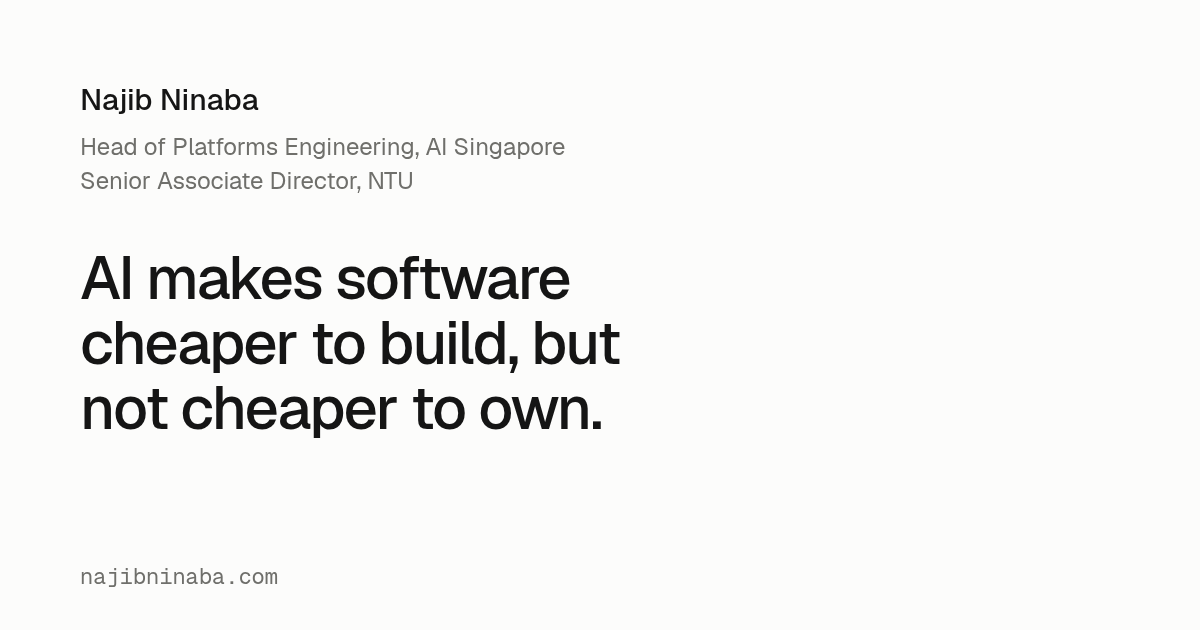
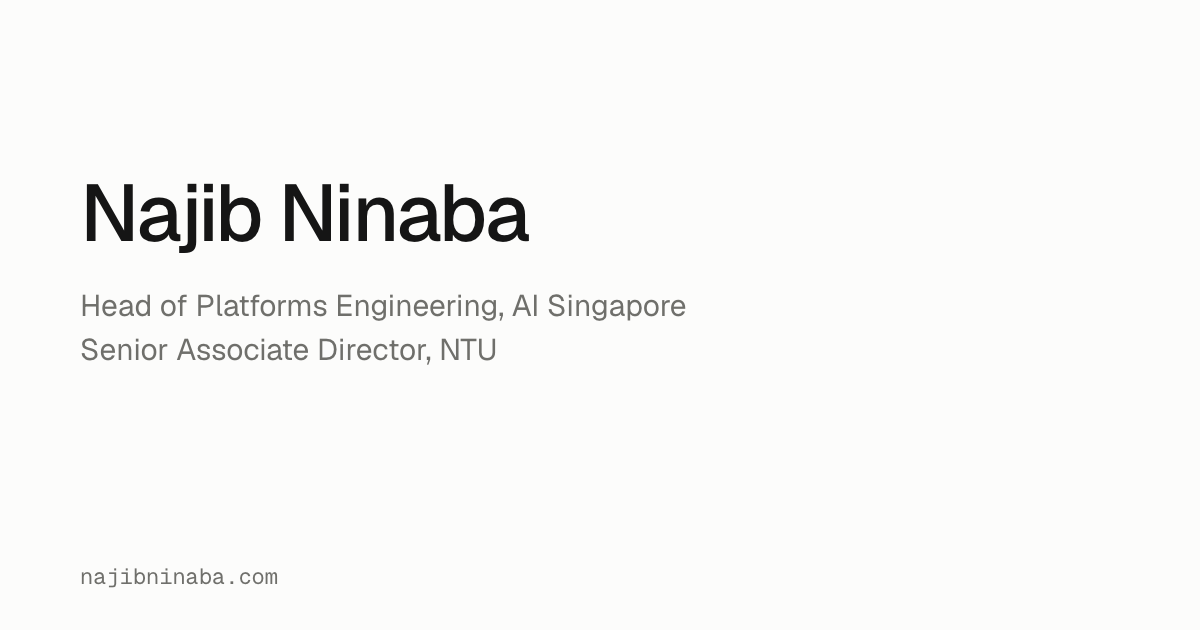
feat(home): lead with name instead of tagline (#5)
* feat(home): lead with name instead of tagline

Drop the "cheaper to build, not cheaper to own" tagline. It uses the
contrast framing the voice guide avoids and reads as a trend take.

- Name is now the one large line; roles sit under it at 16px
- Soften bio copy: "ownership after launch", drop the repeated claim
- Remove the em dash from the page title
- Regenerate og.png as a name-first card and update its alt text
- Update DESIGN.md, PRODUCT.md and design tokens to match

Claude-Session: https://claude.ai/code/session_01SG8wCxUgHKAB8YQrZQepAH

* fix(seo): separate name from roles in page title with a colon

Claude-Session: https://claude.ai/code/session_01SG8wCxUgHKAB8YQrZQepAH

Changed region(s): [[0.0617, 0.2111, 0.5858, 0.6937], [0.0617, 0.1206, 0.2158, 0.181]]

diff --git a/src/data/site.ts b/src/data/site.ts
@@ -12,7 +12,6 @@ export type ExperienceItem = {
 export type SiteContent = {
   name: string;
   title: string;
-  tagline: string;
   description: string;
   about: string;
   experiences: ExperienceItem[];
@@ -23,7 +22,6 @@ export type SiteContent = {
 export const site: SiteContent = {
   name: 'Najib Ninaba',
   title: 'Head of Platforms Engineering, AI Singapore · Senior Associate Director, Nanyang Technological University',
-  tagline: 'AI makes software cheaper to build, but not cheaper to own.',
   description:
     'Najib Ninaba is Head of Platforms Engineering at AI Singapore and Senior Associate Director at NTU. He builds AI platforms and context-engineering tools for coding agents.',
   about:
@@ -88,17 +86,17 @@ export const site: SiteContent = {
 
 export const intro = [
   'I lead Platforms Engineering at AI Singapore, where I joined in 2018 as one of the original four engineers: hybrid infrastructure, GPU and HPC capacity, MLOps and data platforms for national AI programmes. Since April 2026 that work sits at NTU.',
-  'I started around 2000 building Linux HPC clusters in Singapore, and the habits from that work still hold: clear contracts, observable behaviour, and ownership after the demo. These days I build tools for agent-assisted development.',
+  'I started around 2000 building Linux HPC clusters in Singapore, and the habits from that work still hold: clear contracts, observable behaviour, and ownership after launch. These days I build tools for agent-assisted development.',
 ];
 
 export const bio = {
   short: 'Najib Ninaba is Head of Platforms Engineering at AI Singapore and Senior Associate Director at Nanyang Technological University. He builds tools for agent-assisted development, including Orchard, an open-source platform for sovereign on-premises LLM orchestration.',
   long: [
-    'Najib Ninaba is Head of Platforms Engineering at AI Singapore, Senior Associate Director at Nanyang Technological University, and a hands-on builder of tools for agent-assisted development. His work sits at the intersection of platform architecture, operational ownership, and the engineering systems that help teams deliver reliably.',
+    'Najib Ninaba is Head of Platforms Engineering at AI Singapore, Senior Associate Director at Nanyang Technological University, and a hands-on builder of tools for agent-assisted development. His work covers platform architecture, operations, and the engineering systems that help teams deliver reliably.',
     'Najib began his career around 2000, building early Linux high-performance computing clusters in Singapore. He contributed cluster tooling and packaging to the Rocks ecosystem before co-founding Scalable Systems, an HPC startup acquired by Platform Computing in 2006. He later led engineering teams at Platform Computing and Revolution Analytics, working across distributed computing, cloud infrastructure, and large-scale analytics. He also co-founded Real Analytics, where he worked on data engineering, consulting, and technical training.',
     'In 2017, Najib joined the NUS School of Continuing and Lifelong Education as a Data Engineering Architect, where he lectured in data analytics and data engineering. He joined AI Singapore in January 2018 as one of its original four engineers. He now leads the Platforms Engineering function supporting national AI programmes through hybrid infrastructure, GPU and HPC capacity, MLOps foundations, data platforms, and reliability practices. When AI Singapore transitioned from NUS to NTU in April 2026, Najib became Senior Associate Director at NTU while continuing to lead Platforms Engineering. From 2020 to 2024, he also served on the National Supercomputing Centre Singapore’s Technical Resource Allocation Committee as its Scientific Advisor for AI.',
     'He created Orchard, an open-source platform for sovereign on-premises LLM orchestration, and contributes to and reviews RepoPrompt CE, a context-engineering application for AI coding agents.',
-    'Najib’s practical view is that AI makes software cheaper to build, but not cheaper to own. More software creates more systems that must be understood, operated, secured, and maintained. Many of the old HPC habits still apply: clear contracts, observable behavior, disciplined workflows, and ownership after the demo.',
+    'Many of the habits from his HPC work still apply: clear contracts, observable behaviour, disciplined workflows, and ownership after launch.',
   ],
 };
 

diff --git a/DESIGN.md b/DESIGN.md
@@ -30,11 +30,12 @@ typography:
     fontSize: "18px"
     fontWeight: 500
     letterSpacing: "-0.015em"
-  name:
+  role-line:
     fontFamily: "Geist, ui-sans-serif, system-ui, sans-serif"
-    fontSize: "15px"
-    fontWeight: 500
-    letterSpacing: "-0.01em"
+    fontSize: "16px"
+    fontWeight: 400
+    lineHeight: 1.55
+    fontFeature: "'ss01'"
   body-lead:
     fontFamily: "Geist, ui-sans-serif, system-ui, sans-serif"
     fontSize: "16px"
@@ -130,7 +131,7 @@ components:
 
 **Creative North Star: "The Index Card"**
 
-The site is a minimal engineer's homepage, done straight: one reading column of plain facts next to a small sticky index of the sections. Type does all the ranking. There is one large line on the page (the thesis). Everything else sits between 12.5px and 18px, and weight, grey step and spacing do the rest of the work. Near-white paper, near-black ink, three greys and a hairline. The single blue accent is almost never seen: it marks keyboard focus and the active section in the rail, and nothing else.
+The site is a minimal engineer's homepage, done straight: one reading column of plain facts next to a small sticky index of the sections. Type does all the ranking. There is one large line on the page (the name). Everything else sits between 12.5px and 18px, and weight, grey step and spacing do the rest of the work. Near-white paper, near-black ink, three greys and a hairline. The single blue accent is almost never seen: it marks keyboard focus and the active section in the rail, and nothing else.
 
 Density is low and the measure is short. Sections are separated by whitespace instead of rules. Hairlines appear only between rows of a list. Project screenshots are the only images of any size, and they sit in quiet 12px frames rather than cards. The dark theme is a separate palette with its own values, not an inversion of the light one.
 
@@ -156,7 +157,7 @@ A warm-neutral paper-and-ink palette with one cobalt accent that almost never ap
 ### Neutral
 - **Paper** (`paper` / `paper-dark`): the page background, also the scrollbar track.
 - **Shelf** (`paper-2` / `paper-2-dark`): the only tinted surface. Used for the bio panel, the frame behind project screenshots, the writing-row hover and the theme-toggle hover.
-- **Ink** (`ink` / `ink-dark`): headings, the name, the thesis, list titles and active or hovered navigation.
+- **Ink** (`ink` / `ink-dark`): headings, the name, list titles and active or hovered navigation.
 - **Graphite** (`ink-2` / `ink-2-dark`): reading prose (intro, project descriptions, bio copy) and secondary controls.
 - **Pencil** (`ink-3` / `ink-3-dark`): section labels, role lines, metadata, captions, dates, idle rail links, the footer and the scrollbar thumb.
 - **Hairline** (`rule` / `rule-dark`): 1px row dividers, the screenshot frame border, the avatar outline and the copy-button border.
@@ -177,18 +178,18 @@ A warm-neutral paper-and-ink palette with one cobalt accent that almost never ap
 **Character:** A single neo-grotesque family at two weights, 400 and 500. Body text enables Geist's `ss01` stylistic set. The mono face appears only where numbers need to align.
 
 ### Hierarchy
-- **Display** (500, clamp 34 to 48px, line-height 1.08, -0.03em, balanced, max 16ch): the thesis only. It is the one large line on the page.
+- **Display** (500, clamp 34 to 48px, line-height 1.08, -0.03em, balanced): the h1 name only. It is the one large line on the page.
 - **Title** (500, 18px, -0.015em): project names.
-- **Name** (500, 15px, -0.01em): the h1 name at the top of the column.
 - **Body lead** (400, 16px, line-height 1.7, max 60ch): the first-person intro, set in Graphite.
 - **Body** (400, 15.5px, line-height 1.65, max 60ch): project descriptions and writing and experience rows.
-- **Body small** (400, 14px, line-height 1.6): role lines, rail links and experience summaries (line-height 1.55). Bio copy is a 14.5px variant at line-height 1.7.
+- **Role line** (400, 16px, line-height 1.55, max 52ch, Pencil): the roles under the name, 16px below it.
+- **Body small** (400, 14px, line-height 1.6): rail links and experience summaries (line-height 1.55). Bio copy is a 14.5px variant at line-height 1.7.
 - **Label** (500, 13px, Pencil): the section headings (Projects, Writing, Experience, Bio).
 - **Meta** (400, 13px): project role and status lines, captions, project URLs, copy buttons and the footer.
 - **Mono date** (Geist Mono, 12.5px, tabular figures, Pencil): post dates and experience year ranges.
 
 ### Named Rules
-**The One Loud Line Rule.** Only the thesis goes above 18px. Section headings are small, and space and position set them apart.
+**The One Loud Line Rule.** Only the name goes above 18px. Section headings are small, and space and position set them apart.
 
 **The Mono Is For Time Rule.** Geist Mono is used only for dates and year ranges, always with tabular figures.
 
@@ -196,7 +197,7 @@ A warm-neutral paper-and-ink palette with one cobalt accent that almost never ap
 
 A centred 1040px frame with 24px side padding, a top padding of `clamp(3rem, 11vh, 7.5rem)` and 96px at the bottom. It holds a two-column grid: a 168px rail and a `minmax(0, 1fr)` column capped at 680px, with a 64px gap. The rail is sticky at `clamp(24px, 6vh, 56px)` from the top. From top to bottom it holds a 36px round avatar, the section nav 40px below it (items 8px apart, at least 24px tall) and the theme toggle 40px below that.
 
-Vertical rhythm: 96px between sections, and 96px before the footer, which has a hairline above it. Within the About block there are 40px steps between name, thesis and intro. Section labels sit 24px above their content. Projects are 56px apart, with 20px between image and heading. Writing and experience rows share a two-column grid: a 104px date column, a 16px gap and the text. Rows are padded 10px (writing) or 12px (experience).
+Vertical rhythm: 96px between sections, and 96px before the footer, which has a hairline above it. Within the About block the role line sits 16px below the name and the intro 40px below the role line. Section labels sit 24px above their content. Projects are 56px apart, with 20px between image and heading. Writing and experience rows share a two-column grid: a 104px date column, a 16px gap and the text. Rows are padded 10px (writing) or 12px (experience).
 
 Breakpoints:
 - **767px and below:** one column with a 40px row gap. The rail turns into a static top bar with the avatar on the left and the theme toggle on the right, and the section nav is hidden.
@@ -249,7 +250,7 @@ A quiet table of contents that follows the reader.
 - **Short and long toggle:** a 13px Pencil text button. Without JavaScript, the long bio falls back to a native `details` element.
 
 ### Social card
-Text-only `public/og.png`, rendered in Chromium at 1200×630 (1×) with self-hosted Geist. Paper background, Ink name (30px Medium) and thesis (60px Medium, 1.08 line-height, -0.03em tracking, balanced 16ch measure); Pencil role lines (24px) and Geist Mono domain (22px). Left inset is 80px. No photo, logo, icons or gradient.
+Text-only `public/og.png`, rendered in Chromium at 1200×630 (1×) with self-hosted Geist. Paper background, Ink name (80px Medium, 1.08 line-height, -0.03em tracking); Pencil role lines (30px) and Geist Mono domain (22px). Left inset is 80px. No photo, logo, icons or gradient.
 
 ### Site icon
 Text-only `NN` monogram in outlined Geist Medium, centred on Paper with Ink lettering and a 6px corner radius. The SVG follows `prefers-color-scheme`; the 180×180 Apple touch icon and 32×32 ICO fallback use the light palette. No photo.
@@ -271,7 +272,7 @@ Blocks marked to rise animate from 6px below with 3px blur to rest over 700ms on
 ### Don't:
 - **Don't** add box shadows or gradients.
 - **Don't** colour links, buttons or surfaces with the accent.
-- **Don't** set any text other than the thesis above 18px.
+- **Don't** set any text other than the name above 18px.
 - **Don't** use Geist Mono for labels, metadata or body text.
 - **Don't** add a fourth text grey or a heavier font weight than 500.
 - **Don't** put project entries or list rows in bordered or tinted cards at rest. The Shelf panel is kept for the bio block; rows get the tint only on hover or focus.

diff --git a/PRODUCT.md b/PRODUCT.md
@@ -15,7 +15,7 @@ web
 A personal site for Najib Ninaba. It states who he is (Head of Platforms Engineering at AI Singapore; Senior Associate Director at NTU; hands-on builder of tools for agent-assisted development), shows the work that proves it, and points to his writing. Success means a visitor leaves knowing his position and his flagship projects, and follows, reads or gets in touch.
 
 ## Positioning
-He's a platform engineer who has run production systems for 25 years (early Linux HPC clusters in Singapore since around 2000, two startups, Platform Computing, Revolution Analytics, and one of AI Singapore's original four engineers) and who still ships code himself, for example Orchard's roughly 1,400 commits in 6 months. His thesis: "AI makes software cheaper to build, but not cheaper to own." Old HPC habits still apply: clear contracts, observable behaviour, disciplined workflows, and ownership after the demo.
+He's a platform engineer who has run production systems for 25 years (early Linux HPC clusters in Singapore since around 2000, two startups, Platform Computing, Revolution Analytics, and one of AI Singapore's original four engineers) and who still ships code himself, for example Orchard's roughly 1,400 commits in 6 months. Old HPC habits still apply: clear contracts, observable behaviour, disciplined workflows, and ownership after launch.
 
 ## Operating Context
 Static Astro site on GitHub Pages at najibninaba.com. Content is hand-curated in TypeScript (`src/data/site.ts`, `src/data/posts.ts`, `src/data/projects.ts`). The writing feed links out to LinkedIn, X and Substack. Visitors come mostly on mobile from social links, and on desktop from event pages.
